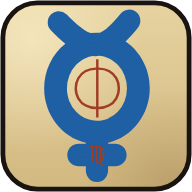
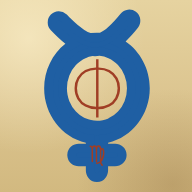
Ícone do app: papiro até a borda, sem margem preta
Claude-Session: https://claude.ai/code/session_01GEkV3mKHYXn5BYEqrpfaaD

Changed region(s): [[0.0, 0.0, 1.0, 1.0]]

diff --git a/index.html b/index.html
@@ -82,8 +82,8 @@
         em cache mesmo depois de recarregar a página (o cache de favicon é
         separado do cache normal da página). Trocar esse número toda vez
         que o favicon.svg ou o favicon.png forem atualizados de novo. -->
-<link rel="icon" type="image/svg+xml" href="favicon.svg?v=8">
-<link rel="apple-touch-icon" href="apple-icon-180.png?v=1"><!-- ícone do app instalado no iPhone/iPad: o Hermes com o espírito e o Virgem em terracota (o do Falando de Astrologia é ocre), para os dois não se confundirem na tela inicial -->
+<link rel="icon" type="image/svg+xml" href="favicon.svg?v=9">
+<link rel="apple-touch-icon" href="apple-icon-180.png?v=2"><!-- ícone do app instalado no iPhone/iPad: o Hermes com o espírito e o Virgem em terracota (o do Falando de Astrologia é ocre), para os dois não se confundirem na tela inicial -->
 
     <!-- APP INSTALÁVEL (iPhone/iPad: Compartilhar > Adicionar à Tela de Início; Android: Instalar aplicativo): abre em tela cheia,
          sem a barra do navegador. É o mesmo site, só empacotado: não há versão separada para manter. -->
